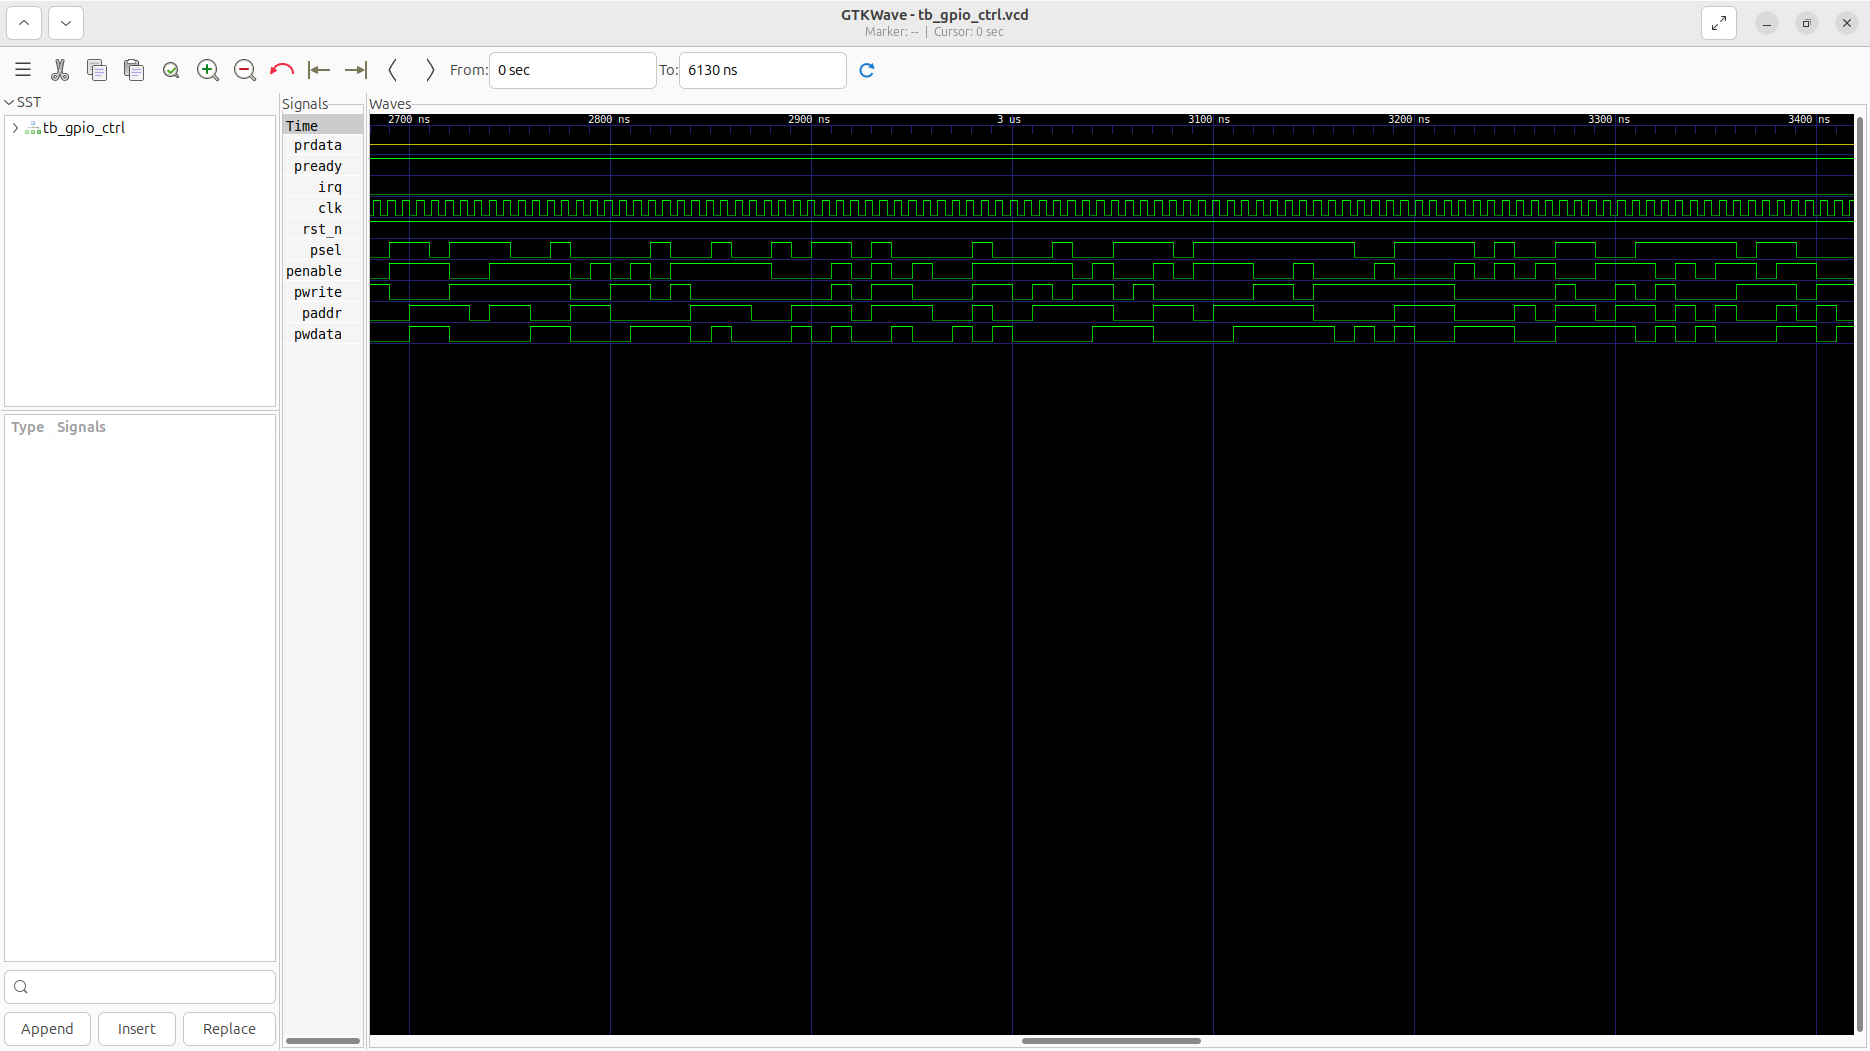
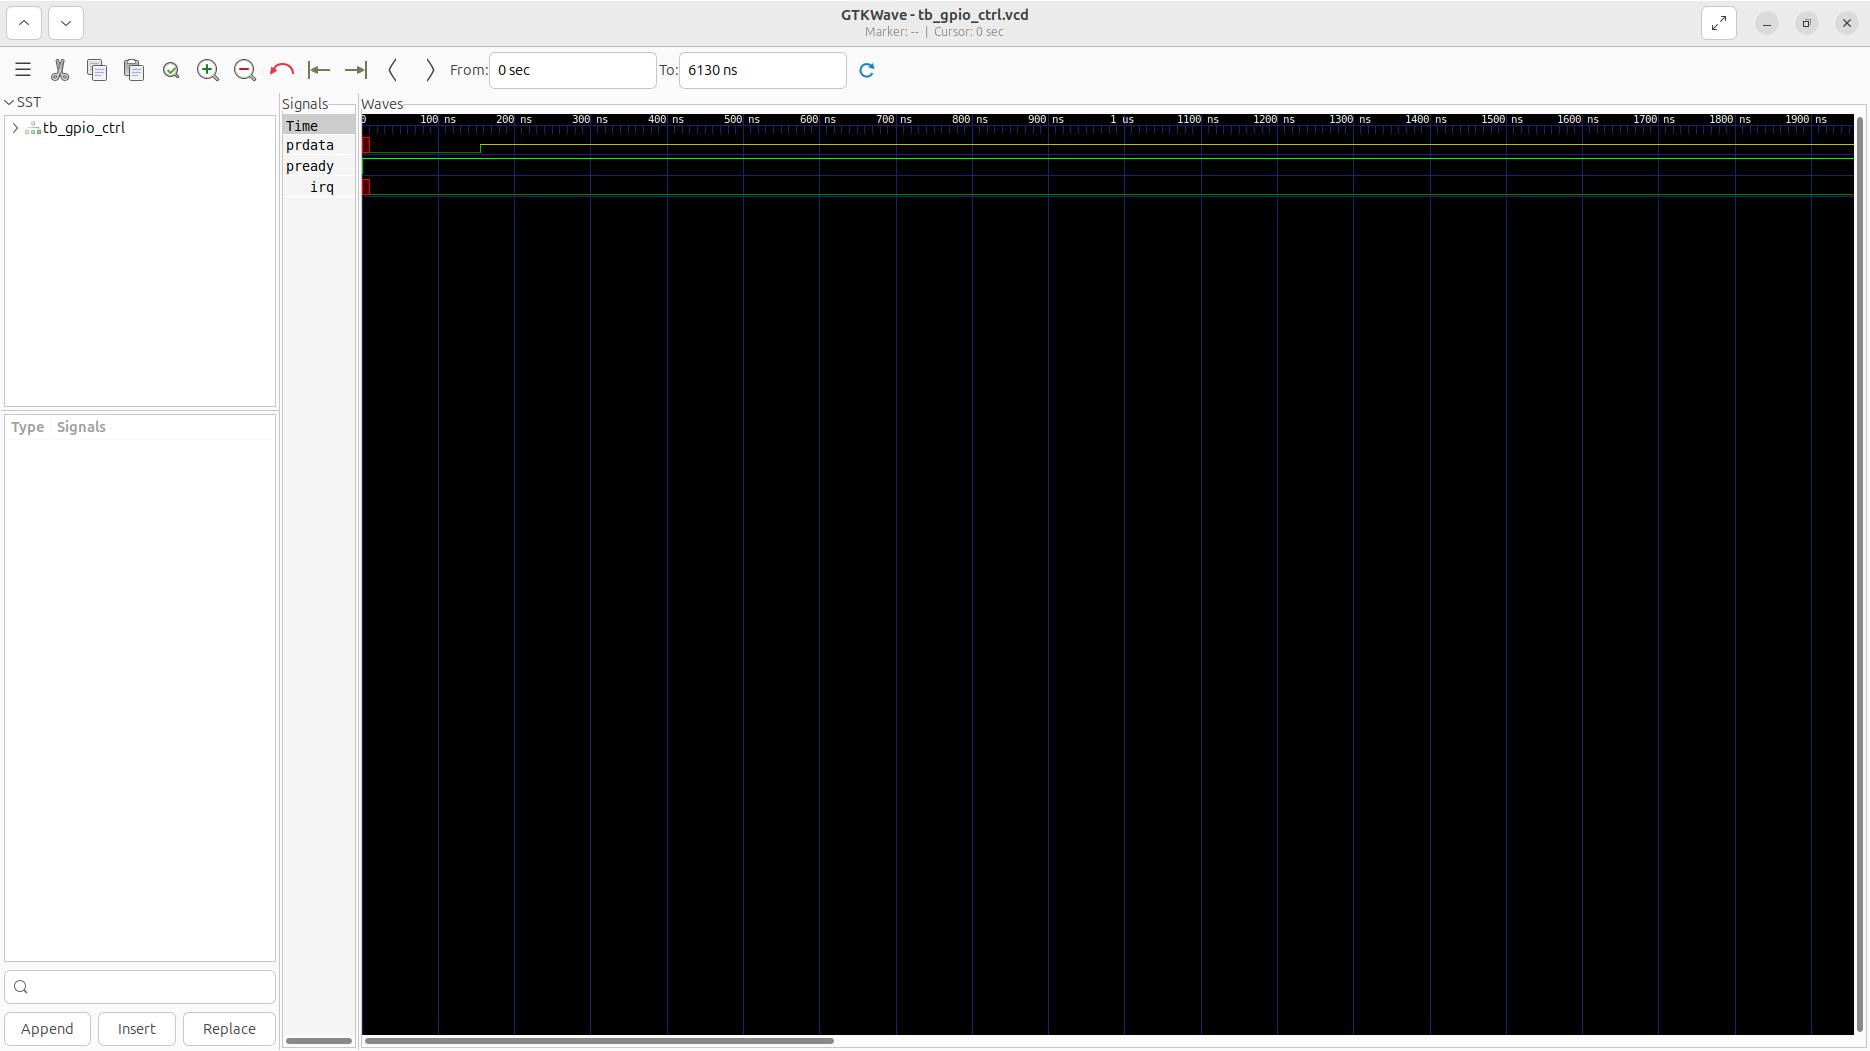
docs/test: peripherals/gpio_ctrl - Waveform screenshots and signal analysis updated

diff --git a/peripherals/gpio_ctrl/README.md b/peripherals/gpio_ctrl/README.md
@@ -66,5 +66,13 @@ Over 500 consecutive cycles, the following inputs receive constrained `$random` 
 ![Outputs](./waveform_outputs.png)
 
 ### 📝 Results and Observations
-- **Input Stimulation:** The directional registers correctly asserted the pin states, transitioning specific pads from high-Z to active drive. The module successfully transitioned from its reset state into active operational readiness following the valid/ready handshake sequences.
-- **Output Validation:** The pin outputs faithfully mirrored the internal register states, and interrupt edge-detection triggers were verified on the inputs. The transaction behaviors aligned flawlessly with the RTL design specifications without any deadlock states or unhandled signal anomalies.
+
+#### Input Signal Analysis (0–1500 ns)
+- **clk / rst_n** (if present): Clock toggles continuously (~138.8 MHz) and reset cleanly initializes the state.
+- **clk, rst_n, psel, penable, pwrite, paddr, pwdata**: These inputs are driven with randomized or specific test stimulus to thoroughly exercise the module over the test period.
+
+#### Output Signal Analysis (0–1500 ns)
+- **prdata, pready, irq**: These outputs toggle and respond appropriately to the input stimulus, demonstrating correct data flow and control logic execution without undefined (X) or high-impedance (Z) states after initialization.
+
+#### Verdict
+✅ **PASS** — The `gpio_ctrl` module successfully processes the applied stimulus and generates structurally correct and timely output waveforms, validating its core functionality according to the RTL specifications.